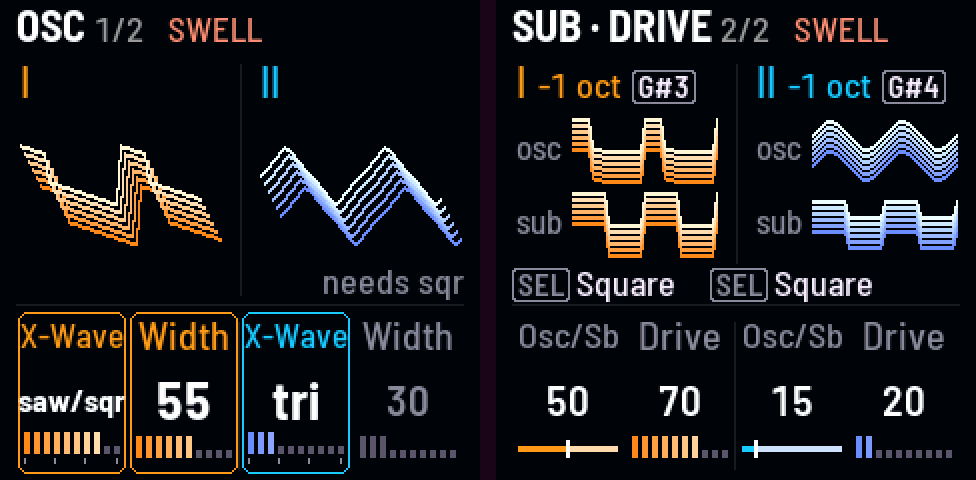
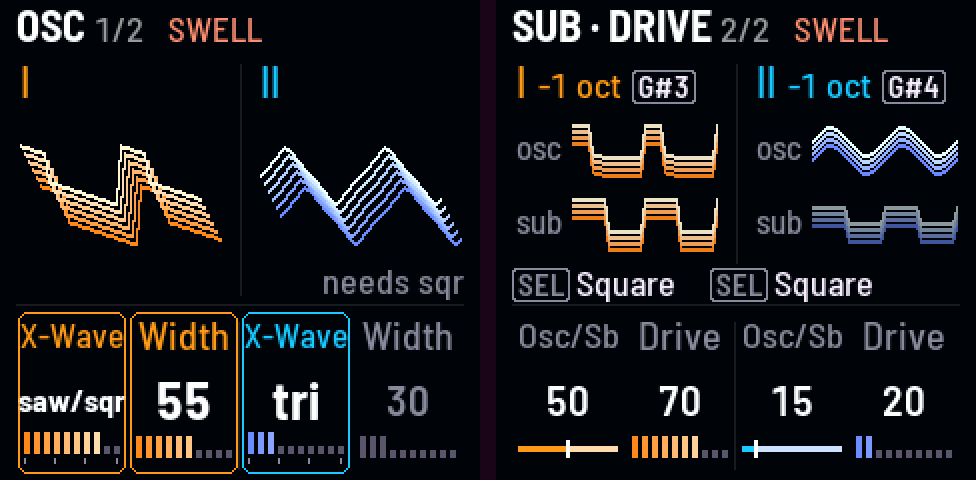
Pitch moves: the note Wander is going to, its quarter note at the right edge; Sub · Drive: four strands a lane, dimming toward 0, one thin line at 0 (Evan)

diff --git a/firmware/src/app/look.c b/firmware/src/app/look.c
@@ -60,6 +60,15 @@ static uint16_t lk_mix(uint32_t a, uint32_t b, float t)   /* 0xRRGGBB a -> b */
     return RGB(r, g, bl);
 }
 static uint16_t lk_ramp(int g, float t) { return lk_mix(LK_RAMP[g][0], LK_RAMP[g][1], t); }
+static uint32_t lk_ramp888(int g, float t)   /* the same, 0xRRGGBB (to dim it) */
+{
+    const uint32_t a = LK_RAMP[g][0], b = LK_RAMP[g][1];
+    uint32_t c = 0;
+    int sh;
+    for (sh = 16; sh >= 0; sh -= 8)
+        c |= (uint32_t)((float)(a >> sh & 255u) + ((float)(b >> sh & 255u) - (float)(a >> sh & 255u)) * t) << sh;
+    return c;
+}
 
 /* a message's color, by who said it (the callers still pass the old palette's): gold the scenes and saves, amber
  * and cyan the drones, violet the LFO and the gestures, the neutral the rest */
@@ -309,17 +318,22 @@ static void lk_plot(int32_t x0, const int16_t *y, int n, uint16_t c)
 #define LK_BDY 4
 #define LK_SDX 0                             /* Sub · Drive's lanes are small: 3 px down */
 #define LK_SDY 3
-static void lk_bundle(int32_t x0, const int16_t *y, int n, int g, int dx, int dy)
-{
+static void lk_bundle_n(int32_t x0, const int16_t *y, int n, int g, int dx, int dy, int ns, float bright)
+{                                              /* ns strands over the whole ramp, at bright of its light (0..1) */
     int j, i;
-    for (j = 0; j < 6; j++) {                  /* the deepest, furthest back, first */
-        const int32_t ox = x0 + dx * (5 - j), oy = dy * (5 - j);
-        const uint16_t c = lk_ramp(g, (float)j / 5.0f);
+    for (j = 0; j < ns; j++) {                 /* the deepest, furthest back, first */
+        const int32_t ox = x0 + dx * (ns - 1 - j), oy = dy * (ns - 1 - j);
+        const float t = (float)j / (float)(ns - 1);
+        const uint16_t c = bright < 1.0f ? lk_mix(0x07060Bu, lk_ramp888(g, t), bright) : lk_ramp(g, t);
         for (i = 1; i < n; i++) {
             cv_line(ox + 2 * (i - 1), y[i - 1] + oy, ox + 2 * i, y[i] + oy, c);
             cv_line(ox + 2 * (i - 1), y[i - 1] + oy + 1, ox + 2 * i, y[i] + oy + 1, c);
         }
     }
+}
+static void lk_bundle(int32_t x0, const int16_t *y, int n, int g, int dx, int dy)
+{
+    lk_bundle_n(x0, y, n, g, dx, dy, 6, 1.0f);
 }
 
 /* ------------------------------------------------- Drones 1's picture --- */
@@ -503,15 +517,20 @@ static void lk_pic_source(void)
         for (k = 0; k < 2; k++) {              /* osc above, sub below */
             const int32_t yc = top + lane * k + lane / 2;
             cv_text(x0, yc - (int32_t)LK_F_TAG.h / 2, &LK_F_TAG, k ? "sub" : "osc", LK_LABEL);
-            {                                  /* the wave after its lane's name */
+            {   /* the wave after its lane's name: four strands (Evan, 2026-11-02: six were too many), dimming
+                 * toward its share's 0, most of the change near it; at 0 one thin dim line, plainly off */
+                const float v0 = k ? mix : 1.0f - mix, d = 1.0f - v0;
                 int16_t y[37];
-                for (i = 0; i <= 36 - 5 * LK_SDX / 2; i++) {
-                    float ph = 2.0f * (float)i / (36.0f - (float)(5 * LK_SDX / 2)), v;
+                for (i = 0; i <= 36; i++) {
+                    float ph = 2.0f * (float)i / 36.0f, v;
                     ph -= (float)(int)ph;
                     v = share[k] * (k ? lk_sub_at(sw, ph) : xwave_at(x, pw, ph));
-                    y[i] = (int16_t)(yc - 5 * LK_SDY / 2 - (int32_t)(fm_tanhf(drv * v) / td * (float)amp));
+                    y[i] = (int16_t)(yc - 3 * LK_SDY / 2 - (int32_t)(fm_tanhf(drv * v) / td * (float)amp));
                 }
-                lk_bundle(x0 + 28, y, 37 - 5 * LK_SDX / 2, g, LK_SDX, LK_SDY);
+                if (v0 < 0.005f)
+                    cv_rect(x0 + 28, yc, 72, 1, LK_UNLIT);
+                else
+                    lk_bundle_n(x0 + 28, y, 37, g, LK_SDX, LK_SDY, 4, 0.35f + 0.65f * (1.0f - d * d * d));
             }
         }
     }
@@ -948,11 +967,11 @@ static void lk_pic_moves(void)
 #define LK_SY(s) (bot - (int32_t)(((s) - lo) * px + 0.5f))
     cv_text(8, 1, &LK_F_SMALL, "Shift", in ? LK_WHITE : LK_LABEL);   /* "Shift [E5]": the gesture's key */
     lk_key(8 + text_w(&LK_F_SMALL, "Shift") + 5, 1 + LK_B(LK_F_SMALL), "E5");
-    lk_note(dr_pitch[1] + dr_mac_pitch(1), t);
-    {
-        const int32_t w = text_w(&LK_F_SMALL, t);
-        const int32_t nb = 1 + LK_B(LK_F_SMALL), nx = 232 - w - 10;   /* a quarter note before it (Evan) */
-        cv_text(232 - w, 1, &LK_F_SMALL, t, LK_DRONE[1]);
+    lk_note(dr_pitch[1] + dr_mac_pitch(1) + dr_wander_to() - dr_wander(), t);   /* where Wander is going, not the
+                                                                                     * notes it glides through (Evan) */
+    {   /* the note's name, then a quarter note at the right edge, so it stays put (Evan, 2026-11-02) */
+        const int32_t nb = 1 + LK_B(LK_F_SMALL), nx = 226;
+        cv_text(nx - 4 - text_w(&LK_F_SMALL, t), 1, &LK_F_SMALL, t, LK_DRONE[1]);
         cv_round(nx - 1, nb - 4, 6, 5, 2, LK_LABEL);
         cv_rect(nx + 3, nb - 14, 2, 12, LK_LABEL);
     }

diff --git a/firmware/src/dsp/drone.h b/firmware/src/dsp/drone.h
@@ -170,6 +170,7 @@ extern const uint8_t DR_GEST_DEPTH[DR_NGTYPE], DR_GEST_TIME[DR_NGTYPE];   /* eac
 extern const char *const DR_WSCALE_NAME[DR_NWSCALE];
 void dr_gesture(int g, int amt);               /* gesture key g's amount now, 0..1000 (the UI swells it) */
 float dr_wander(void);                         /* Wander's move of drone II now, semitones (the screen) */
+float dr_wander_to(void);                      /* ... and where it's going (the screen) */
 int dr_wander_degs(float *deg);                /* Wander's scale over drone I, on the Tuning, semitones; how many
                                                 * (up to 8; the screen) */
 float dr_tun_iv(float cur, int j);             /* a scale's note on the Tuning over drone I, semitones:

diff --git a/firmware/src/dsp/drone.c b/firmware/src/dsp/drone.c
@@ -1192,6 +1192,7 @@ static void macro_apply(uint32_t n)              /* the offsets again, n samples
 }
 
 float dr_wander(void) { return wand_st; }
+float dr_wander_to(void) { return wand_to; }
 int dr_heard(int p) { return p >= 0 && p < DR_NPARAMS ? par[p] : 0; }
 float dr_mac_pitch(int g) { return g >= 0 && g < DR_NGROUPS ? mac_p[g] : 0.0f; }
 float dr_gest_pitch(int g) { return g >= 0 && g < DR_NGROUPS ? mac_gp[g] : 0.0f; }
